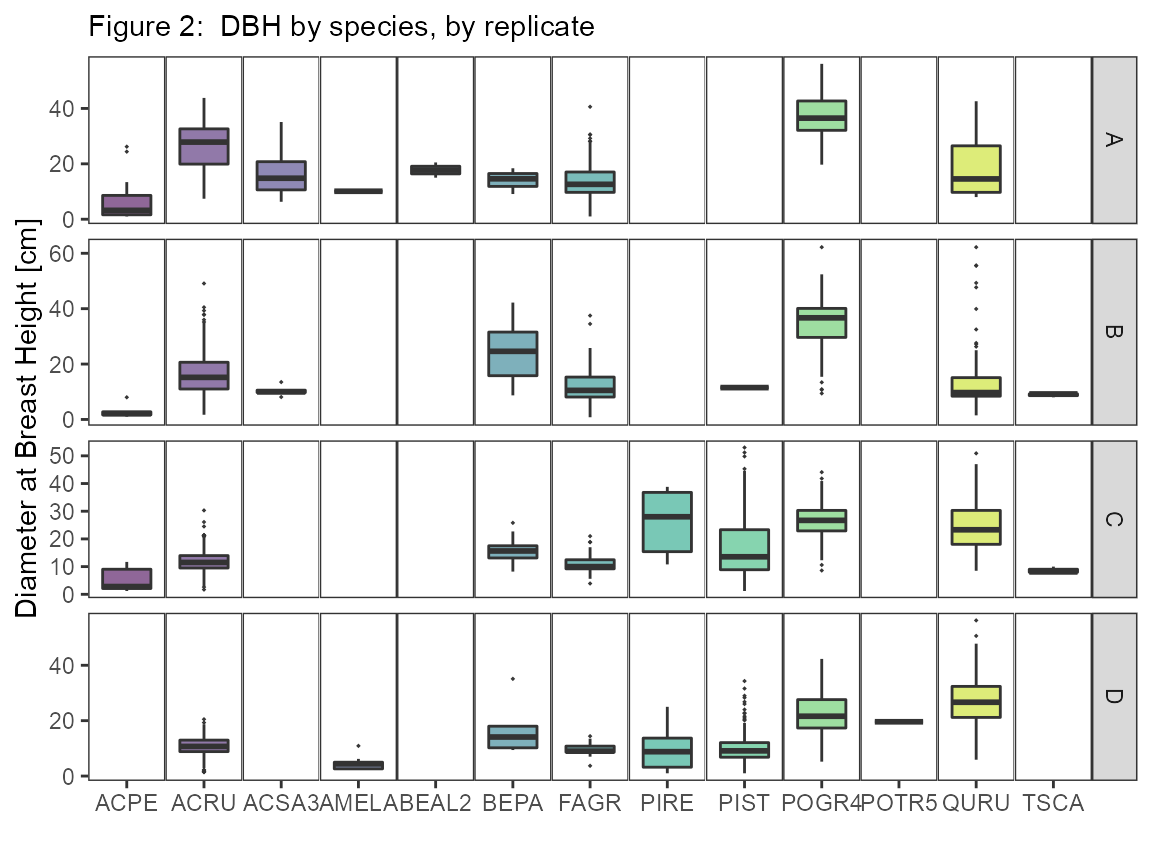
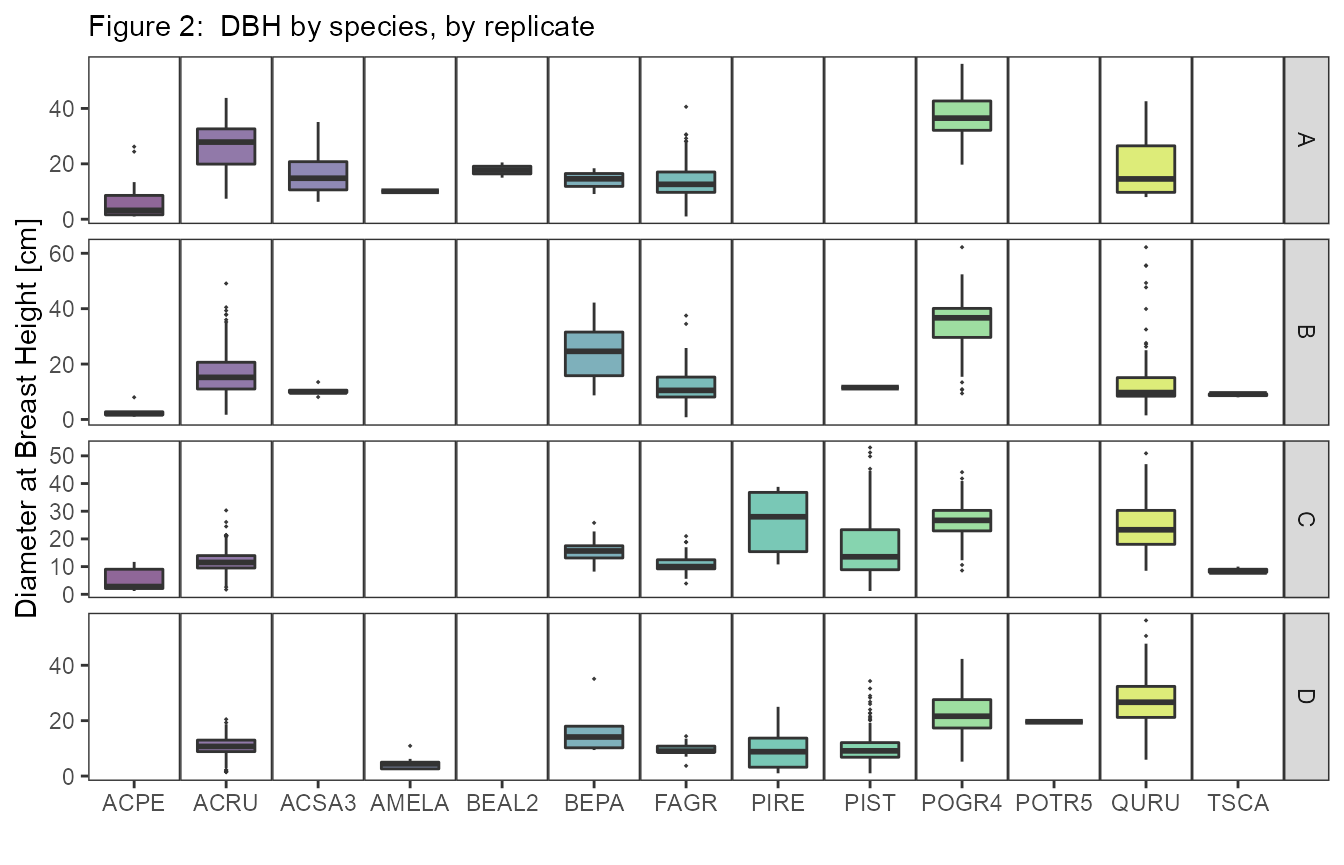
updating inventory vignette w/ disturbance biomass plot

diff --git a/docs/articles/fd_inventory_vignette.html b/docs/articles/fd_inventory_vignette.html
@@ -103,7 +103,7 @@
       <h1 data-toc-skip>fortedata: Forest Inventory Data</h1>
                         <h4 class="author">Jeff Atkins</h4>
             
-            <h4 class="date">2020-12-14</h4>
+            <h4 class="date">2020-12-15</h4>
       
       <small class="dont-index">Source: <a href="https://github.com/FoRTExperiment/fortedata/blob/master/vignettes/fd_inventory_vignette.Rmd"><code>vignettes/fd_inventory_vignette.Rmd</code></a></small>
       <div class="hidden name"><code>fd_inventory_vignette.Rmd</code></div>
@@ -128,7 +128,7 @@
 <div id="data-availability" class="section level2">
 <h2 class="hasAnchor">
 <a href="#data-availability" class="anchor"></a>Data Availability</h2>
-<p><code>fortedata</code> is an evolving, open-science data package with data updated in near-real time. The current inventory observations available as of 2020-12-14 are detailed in Figure 1. Remeasurement is slated to occur in the summer of 2022.</p>
+<p><code>fortedata</code> is an evolving, open-science data package with data updated in near-real time. The current inventory observations available as of 2020-12-15 are detailed in Figure 1. Remeasurement is slated to occur in the summer of 2022.</p>
 <p><img src="fd_inventory_vignette_files/figure-html/observations-1.png" width="576"></p>
 </div>
 <div id="forest-inventory-data" class="section level2">
@@ -156,13 +156,23 @@
 <span class="co">## 10 A01E       A             1 E       2018-07-12  2781 QURU      42.6</span>
 <span class="co">## # ... with 3,155 more rows, and 3 more variables: health_status &lt;chr&gt;,</span>
 <span class="co">## #   canopy_status &lt;chr&gt;, notes &lt;chr&gt;</span></code></pre></div>
-<p><img src="fd_inventory_vignette_files/figure-html/table_inventory-1.png" width="576"></p>
+<p><img src="fd_inventory_vignette_files/figure-html/table_inventory-1.png" width="672"></p>
+<p>###Species Abbreviations for Figure 2: ACPE - <em>Acer pensylvanicum</em>; ACRU - <em>Acer rubrum</em>; ACSA3 - <em>Acer saccharum</em>; AMELA - <em>Amelanchier Medik.</em>; BEAL2 - <em>Betula alleghaniensis</em>; BEPA - <em>Betula papyrifera</em>; FAGR - <em>Fagus grandifolia</em>; PIRE - <em>Pinus resinosa</em>; PIST - <em>Pinus strobus</em>; POGR4 - <em>Populus grandidentata</em>; POTR - <em>Populus tremuloides</em>; QURU - <em>Quercus rubra</em>; TSCA - <em>Tsuga canadensis</em>. Abbreviations are from the <a href="http://plants.usda.gov/dl_all_html">USDA PLANTS list</a>.</p>
 </div>
 <div id="inventory-data" class="section level2">
 <h2 class="hasAnchor">
 <a href="#inventory-data" class="anchor"></a>Inventory Data</h2>
 <p>Biomass can be calculated from <code><a href="../reference/fd_inventory.html">fd_inventory()</a></code> by using the function <code><a href="../reference/calc_biomass.html">calc_biomass()</a></code>.</p>
-<p><img src="fd_inventory_vignette_files/figure-html/biomass-1.png" width="720" style="display: block; margin: auto;"><img src="fd_inventory_vignette_files/figure-html/biomass-2.png" width="720" style="display: block; margin: auto;"></p>
+<p><img src="fd_inventory_vignette_files/figure-html/biomass-1.png" width="720" style="display: block; margin: auto;"></p>
+<p>In figure 3 we show above-ground woody biomass at the plot level. This can be done by summing the biomass estimates to the plot level and then multiplying by 0.001 to convert kg to Mg and then multiplying that value by 10 to scale from 0.1 ha to 1 ha as follows:</p>
+<div class="sourceCode" id="cb2"><pre class="downlit sourceCode r">
+<code class="sourceCode R"><span class="co"># group the data by your factor of interest, here we show how the data are summed in Figure 3.</span>
+<span class="va">x</span> <span class="op">%&gt;%</span>
+  <span class="fu">group_by</span><span class="op">(</span><span class="va">subplot_id</span>, <span class="va">disturbance_severity</span>, <span class="va">treatment</span><span class="op">)</span> <span class="op">%&gt;%</span>
+  <span class="fu">summarize</span><span class="op">(</span>biomass_plot <span class="op">=</span> <span class="fu"><a href="https://rdrr.io/r/base/sum.html">sum</a></span><span class="op">(</span><span class="va">biomass</span><span class="op">)</span><span class="op">)</span> <span class="op">-&gt;</span> <span class="va">y</span>
+
+<span class="co"># Above, y$biomass is in units of kg per 0.1 ha. We want to convert to Mg per ha</span>
+<span class="va">y</span><span class="op">$</span><span class="va">biomass_mg_ha</span> <span class="op">&lt;-</span> <span class="va">y</span><span class="op">$</span><span class="va">biomass_plot</span> <span class="op">*</span> <span class="fl">0.001</span> <span class="op">*</span> <span class="fl">10</span></code></pre></div>
 </div>
   </div>
 

diff --git a/docs/articles/fd_remote_sensing_vignette.html b/docs/articles/fd_remote_sensing_vignette.html
@@ -103,7 +103,7 @@
       <h1 data-toc-skip>fortedata: Remote Sensing Data</h1>
                         <h4 class="author">Jeff Atkins</h4>
             
-            <h4 class="date">2020-12-14</h4>
+            <h4 class="date">2020-12-15</h4>
       
       <small class="dont-index">Source: <a href="https://github.com/FoRTExperiment/fortedata/blob/master/vignettes/fd_remote_sensing_vignette.Rmd"><code>vignettes/fd_remote_sensing_vignette.Rmd</code></a></small>
       <div class="hidden name"><code>fd_remote_sensing_vignette.Rmd</code></div>
@@ -131,7 +131,7 @@
 <div id="data-availability" class="section level2">
 <h2 class="hasAnchor">
 <a href="#data-availability" class="anchor"></a>Data Availability</h2>
-<p><code>fortedata</code> is an evolving, open-science data package with data updated in near-real time. The current number of remote sensing data observations available as of 2020-12-14 are detailed in Figure 1.</p>
+<p><code>fortedata</code> is an evolving, open-science data package with data updated in near-real time. The current number of remote sensing data observations available as of 2020-12-15 are detailed in Figure 1.</p>
 <div class="sourceCode" id="cb1"><pre class="downlit sourceCode r">
 <code class="sourceCode R"><span class="va">no_of_records.df</span> <span class="op">&lt;-</span> <span class="fu"><a href="../reference/fd_observations.html">fd_observations</a></span><span class="op">(</span><span class="op">)</span>
 

diff --git a/docs/articles/fd_leaf_physiology_vignette.html b/docs/articles/fd_leaf_physiology_vignette.html
@@ -103,7 +103,7 @@
       <h1 data-toc-skip>fortedata: Ecophysiology Data</h1>
                         <h4 class="author">Lisa Haber and Jeff Atkins</h4>
             
-            <h4 class="date">2020-12-14</h4>
+            <h4 class="date">2020-12-15</h4>
       
       <small class="dont-index">Source: <a href="https://github.com/FoRTExperiment/fortedata/blob/master/vignettes/fd_leaf_physiology_vignette.Rmd"><code>vignettes/fd_leaf_physiology_vignette.Rmd</code></a></small>
       <div class="hidden name"><code>fd_leaf_physiology_vignette.Rmd</code></div>
@@ -129,7 +129,7 @@
 <div id="data-availability" class="section level2">
 <h2 class="hasAnchor">
 <a href="#data-availability" class="anchor"></a>Data Availability</h2>
-<p><code>fortedata</code> is an evolving, open-science data package with data updated in near-real time. The current number of leaf physiology data observations available as of 2020-12-14 are detailed in Figure 1.</p>
+<p><code>fortedata</code> is an evolving, open-science data package with data updated in near-real time. The current number of leaf physiology data observations available as of 2020-12-15 are detailed in Figure 1.</p>
 <p><img src="fd_leaf_physiology_vignette_files/figure-html/observations-1.png" width="576"></p>
 </div>
 <div id="ecophysiology-methods" class="section level2">

diff --git a/docs/articles/fd_forte_proposal_vignette.html b/docs/articles/fd_forte_proposal_vignette.html
@@ -103,7 +103,7 @@
       <h1 data-toc-skip>fortedata: Proposal Narrative</h1>
                         <h4 class="author">Drs. Ben Bond-Lamberty and Christopher M. Gough</h4>
             
-            <h4 class="date">2020-12-14</h4>
+            <h4 class="date">2020-12-15</h4>
       
       <small class="dont-index">Source: <a href="https://github.com/FoRTExperiment/fortedata/blob/master/vignettes/fd_forte_proposal_vignette.Rmd"><code>vignettes/fd_forte_proposal_vignette.Rmd</code></a></small>
       <div class="hidden name"><code>fd_forte_proposal_vignette.Rmd</code></div>

diff --git a/docs/articles/fd_belowground_vignette.html b/docs/articles/fd_belowground_vignette.html
@@ -103,7 +103,7 @@
       <h1 data-toc-skip>fortedata: Belowground Data</h1>
                         <h4 class="author">Jeff Atkins and Kayla Mathes</h4>
             
-            <h4 class="date">2020-12-14</h4>
+            <h4 class="date">2020-12-15</h4>
       
       <small class="dont-index">Source: <a href="https://github.com/FoRTExperiment/fortedata/blob/master/vignettes/fd_belowground_vignette.Rmd"><code>vignettes/fd_belowground_vignette.Rmd</code></a></small>
       <div class="hidden name"><code>fd_belowground_vignette.Rmd</code></div>

diff --git a/docs/articles/fd_experimental_design.html b/docs/articles/fd_experimental_design.html
@@ -103,7 +103,7 @@
       <h1 data-toc-skip>fortedata: Experimental Design and Treatment</h1>
                         <h4 class="author">FoRTE Team</h4>
             
-            <h4 class="date">2020-12-14</h4>
+            <h4 class="date">2020-12-15</h4>
       
       <small class="dont-index">Source: <a href="https://github.com/FoRTExperiment/fortedata/blob/master/vignettes/fd_experimental_design.Rmd"><code>vignettes/fd_experimental_design.Rmd</code></a></small>
       <div class="hidden name"><code>fd_experimental_design.Rmd</code></div>

diff --git a/docs/articles/fd_litter_vignette.html b/docs/articles/fd_litter_vignette.html
@@ -103,7 +103,7 @@
       <h1 data-toc-skip>fortedata: Litter Data</h1>
                         <h4 class="author">Jeff Atkins</h4>
             
-            <h4 class="date">2020-12-14</h4>
+            <h4 class="date">2020-12-15</h4>
       
       <small class="dont-index">Source: <a href="https://github.com/FoRTExperiment/fortedata/blob/master/vignettes/fd_litter_vignette.Rmd"><code>vignettes/fd_litter_vignette.Rmd</code></a></small>
       <div class="hidden name"><code>fd_litter_vignette.Rmd</code></div>

diff --git a/docs/articles/fd_examples.html b/docs/articles/fd_examples.html
@@ -103,7 +103,7 @@
       <h1 data-toc-skip>fortedata: Working with the data</h1>
                         <h4 class="author">Jeff Atkins</h4>
             
-            <h4 class="date">2020-12-14</h4>
+            <h4 class="date">2020-12-15</h4>
       
       <small class="dont-index">Source: <a href="https://github.com/FoRTExperiment/fortedata/blob/master/vignettes/fd_examples.Rmd"><code>vignettes/fd_examples.Rmd</code></a></small>
       <div class="hidden name"><code>fd_examples.Rmd</code></div>
